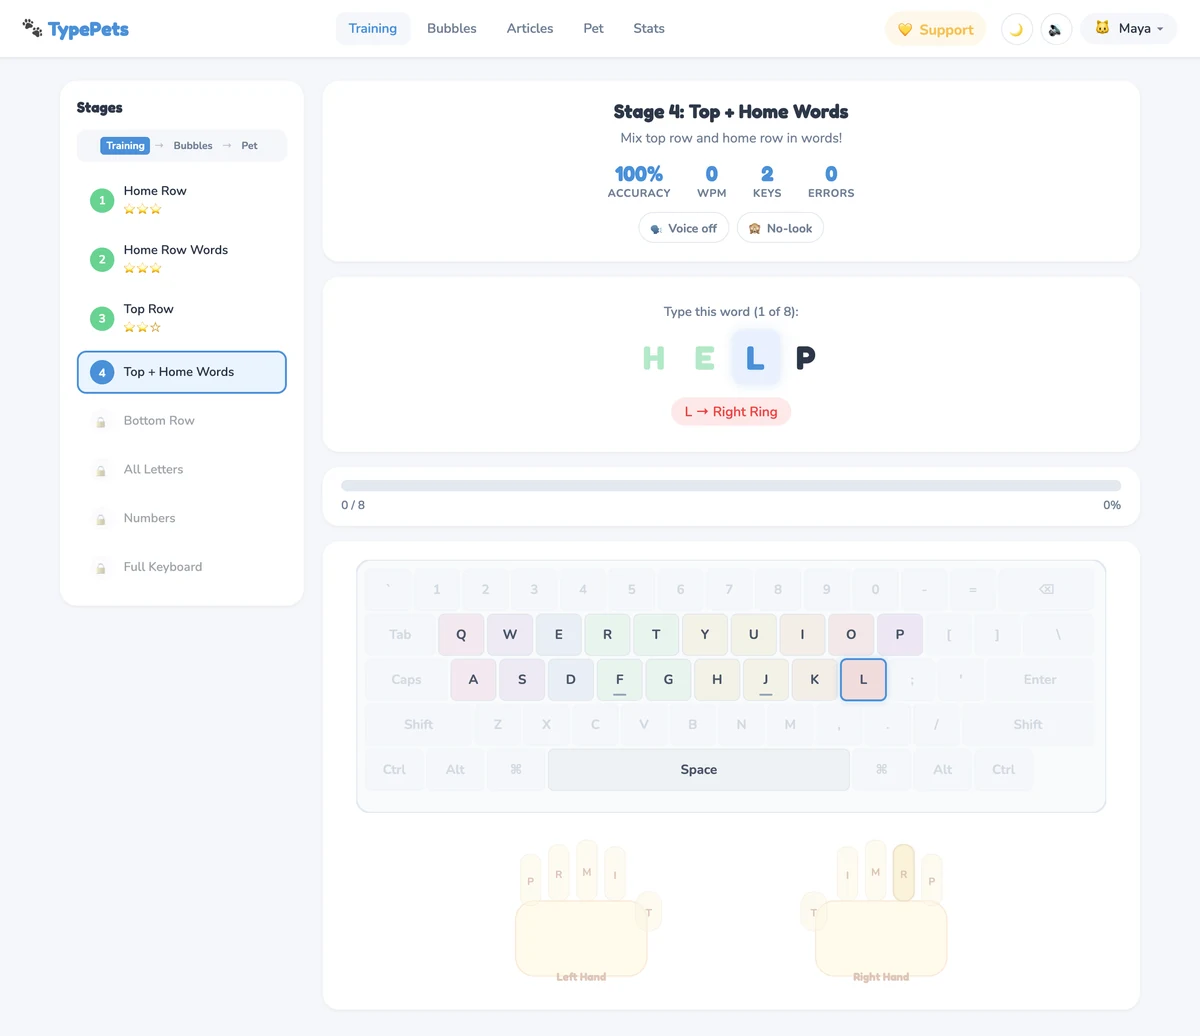
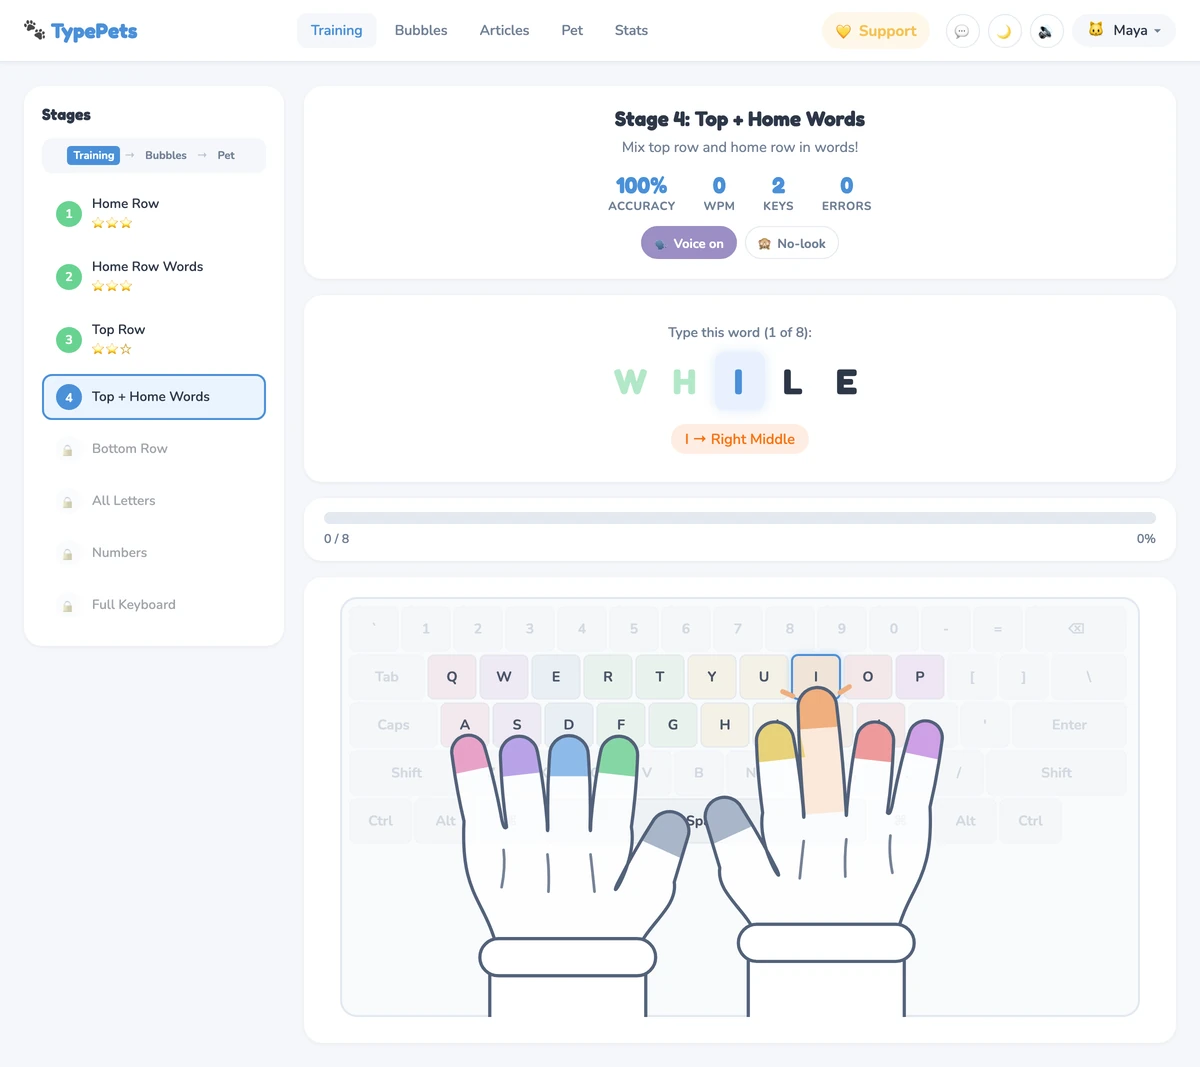
chore(landing): refresh Training screenshot with the glove hands

diff --git a/index.html b/index.html
@@ -288,8 +288,8 @@
             <div class="showcase-row">
                 <figure class="shot">
                     <div class="shot-bar" aria-hidden="true"><span></span><span></span><span></span></div>
-                    <img src="img/screens/training.webp" width="1200" height="1036" loading="lazy" decoding="async"
-                         alt="TypePets Finger Training: a practice word with the next letter highlighted, a color-coded on-screen keyboard and hand guide showing which finger to use, and live accuracy and speed stats">
+                    <img src="img/screens/training.webp" width="1200" height="1067" loading="lazy" decoding="async"
+                         alt="TypePets Finger Training: a practice word with the next letter highlighted, a color-coded on-screen keyboard with cartoon glove hands resting on it and the right finger reaching for the next key, and live accuracy and speed stats">
                 </figure>
                 <div class="showcase-text">
                     <span class="eyebrow">Finger Training</span>
